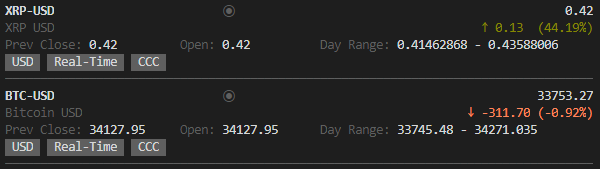
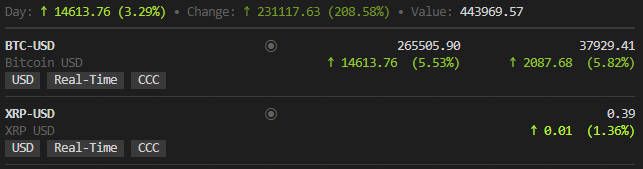
docs: added docs for summary

diff --git a/README.md b/README.md
@@ -54,6 +54,7 @@ ticker -w NET,AAPL,TSLA
 |  |--show-tags||display currency, exchange name, and quote delay for each quote |
 |  |--show-fundamentals||display open price, previous close, and day range |
 |  |--show-separator||layout with separators between each quote|
+|  |--show-summary||show total day change, total value, and total value change|
 |  |--proxy||proxy URL for requests (default is none)|
 
 ## Configuration
@@ -90,7 +91,7 @@ lots:
 
 ### Display Options
 
-With `--show-tags`, `--show-fundamentals`, and `--show-separator` options set, the layout and information displayed expands:
+With  `--show-summary`, `--show-tags`, `--show-fundamentals`, and `--show-separator` options set, the layout and information displayed expands:
 
 <img src="./docs/ticker-all-options.png" />
 
